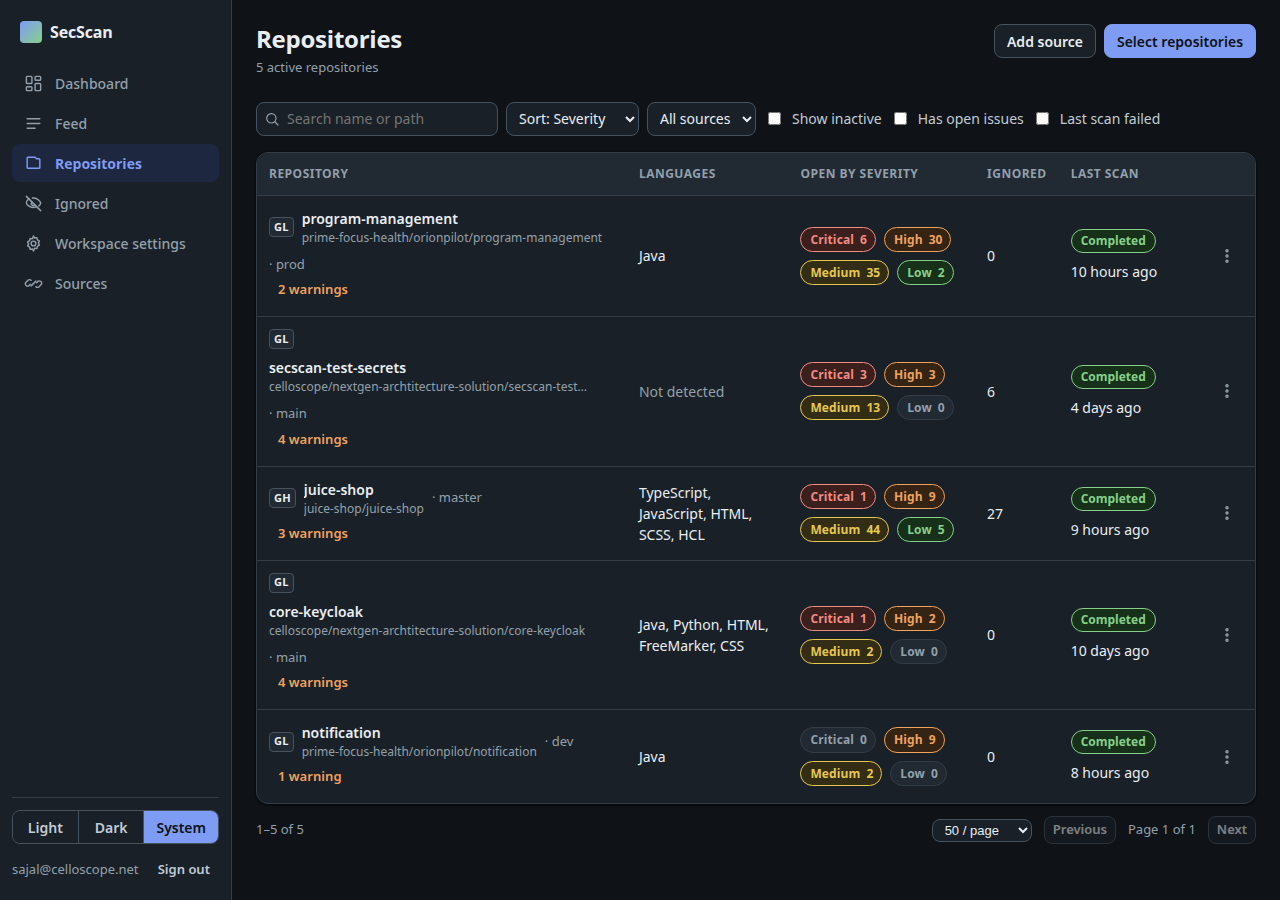
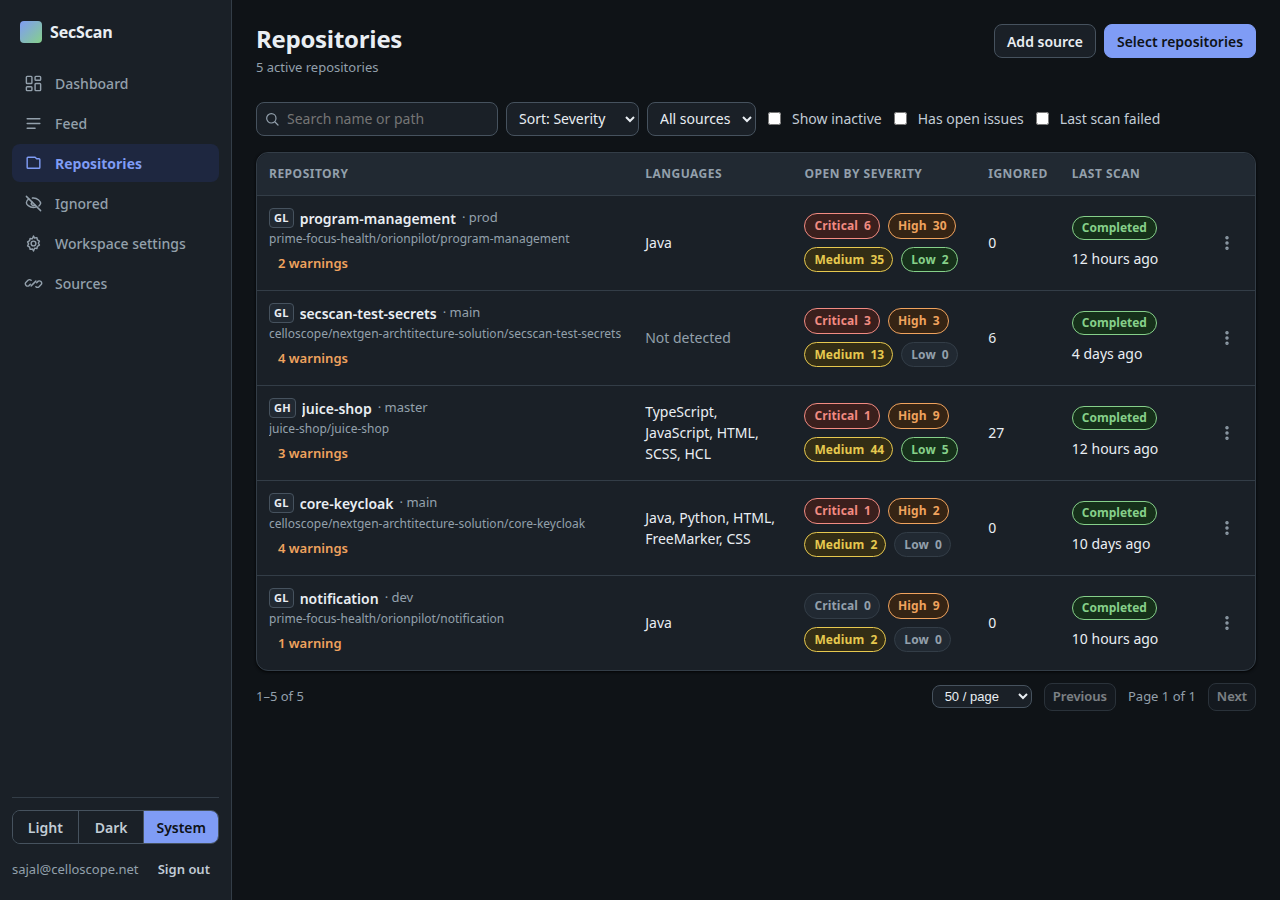
fix(ui): layout polish from screenshot review — L1-L6
L1: Repositories name cell — line 1 (badge + name + '· branch') never wraps (name
truncates with …); line 2 = full path, truncated, full path in a title tooltip.
L2: Issues location on one line, truncated from the START (keeps the file name,
full path in title) with '+N more' as a chip below; rule-id subtitles truncate
with … (full id in title); advisory subtitles wrap at word boundaries only.
L3: the fix-time column never wraps ('15 min').
L4: light-theme medium severity → a clean amber (#b45309) that keeps AA contrast.
L5: Sources help box in a right-hand column next to the form at ≥1280, stacked
below on narrow screens.
L6: the repository page 'Scan' button is primary.

Tests: truncatePath.test.ts (start-truncation, keeps file name, short unchanged);
contrast.test.ts extended (medium amber on surface); layout-1280.spec.ts
(Repositories name row + Issues location cell single-line, no horizontal overflow).
Re-took the affected screenshots (repositories/repo-page/sources/feed ×
1440/1280 × light/dark). UI gate green (123 vitest).

diff --git a/ui/src/pages/RepositoryPage.tsx b/ui/src/pages/RepositoryPage.tsx
@@ -9,6 +9,7 @@ import {
 } from "../api";
 import { qk } from "../queryClient";
 import { useScanPolling, anyActive } from "../lib/scanPolling";
+import { truncatePathStart } from "../lib/truncatePath";
 import Pager, { DEFAULT_PAGE_SIZE } from "../components/Pager";
 import { isUuid, oneOf } from "../lib/validate";
 import { fixTime } from "../lib/format";
@@ -26,7 +27,7 @@ import Icon from "../components/icons";
 import WarningsDrawer from "../components/WarningsDrawer";
 import InlineError from "../components/InlineError";
 import { TableSkeleton } from "../components/Skeleton";
-import { PageHeader, EmptyState, ScanStatusChip, PathText } from "../components/ui";
+import { PageHeader, EmptyState, ScanStatusChip } from "../components/ui";
 
 const TYPES: IssueType[] = ["sca", "sast", "secret", "iac", "eol"];
 const TABS = ["issues", "scans", "settings"] as const;
@@ -100,7 +101,7 @@ export default function RepositoryPage() {
             }
             actions={
               <>
-                <ScanButton repositoryId={r.id} disabled={!r.active} />
+                <ScanButton repositoryId={r.id} disabled={!r.active} primary />
                 <RowMenu label="Repository actions">
                   {(close) => (
                     <button
@@ -339,7 +340,10 @@ function RepoIssuesTab({ repoId }: { repoId: string }) {
                         <div className="stack-tight">
                           <strong>{t.title}</strong>
                           {t.subtitle ? (
-                            <div className={g.type === "sast" ? "muted mono-sub" : "muted subtitle-text"}>
+                            <div
+                              className={g.type === "sast" ? "muted mono-sub" : "muted subtitle-text"}
+                              title={t.subtitle}
+                            >
                               {t.subtitle}
                             </div>
                           ) : null}
@@ -350,15 +354,18 @@ function RepoIssuesTab({ repoId }: { repoId: string }) {
                       </td>
                       <td>
                         {g.primaryLocation ? (
-                          <span className="location-cell">
-                            <PathText path={g.primaryLocation} />
-                            {more > 0 ? <span className="muted"> +{more} more</span> : null}
-                          </span>
+                          <div className="location-cell">
+                            {/* L2: one line, truncated from the START (keeps the file name), full path in title. */}
+                            <span className="location-path file-line" title={g.primaryLocation}>
+                              {truncatePathStart(g.primaryLocation, 48)}
+                            </span>
+                            {more > 0 ? <span className="chip chip-muted more-chip">+{more} more</span> : null}
+                          </div>
                         ) : (
                           <span className="muted">—</span>
                         )}
                       </td>
-                      <td>{fixTime(g.fixTimeMinutes)}</td>
+                      <td className="nowrap">{fixTime(g.fixTimeMinutes)}</td>
                       <td>
                         <StatusChip kind={statusKind(g)} />
                       </td>

diff --git a/ui/src/styles/components.css b/ui/src/styles/components.css
@@ -654,12 +654,39 @@ a.stat-link:hover .stat-num {
 }
 .repo-path {
   display: block;
-  max-width: 320px;
+  max-width: 100%;
   overflow: hidden;
   text-overflow: ellipsis;
   white-space: nowrap;
   color: var(--muted);
   font-size: var(--fs-xs);
+}
+
+/* L1: the Repositories name cell — line 1 (badge + name + "· branch") never wraps (the name truncates), the
+   full path is line 2 (truncated, full path in a title tooltip). Identical at 1280 and 1440. */
+.repo-cell {
+  display: flex;
+  flex-direction: column;
+  gap: 1px;
+  min-width: 0;
+  max-width: 100%;
+}
+.repo-line {
+  display: flex;
+  align-items: center;
+  gap: 6px;
+  min-width: 0;
+  flex-wrap: nowrap;
+}
+.repo-line .provider-badge,
+.repo-line .branch-label,
+.repo-line .chip {
+  flex: none; /* only the name shrinks/truncates */
+}
+.repo-line .repo-name {
+  flex: 0 1 auto;
+  min-width: 0;
+  max-width: none;
 }
 
 /* KEV / attribution small markers */
@@ -1263,12 +1290,16 @@ button.health-item {
 .mono-sub {
   font-family: var(--mono);
   font-size: var(--fs-xs);
-  word-break: break-all;
+  /* L2: rule ids never break mid-word — one line, truncated with … (full id in the title tooltip). */
+  white-space: nowrap;
+  overflow: hidden;
+  text-overflow: ellipsis;
+  max-width: 100%;
 }
 /* advisory / description subtitles stay in the body font (never monospace) */
 .subtitle-text {
   font-size: var(--fs-xs);
-  overflow-wrap: anywhere;
+  overflow-wrap: break-word; /* L2: wrap at word boundaries, never mid-word */
 }
 
 /* ---------- pager ---------- */
@@ -1534,10 +1565,27 @@ button.health-item {
   font-size: var(--fs-xs);
 }
 .location-cell {
-  display: inline-flex;
-  align-items: baseline;
+  /* L2: location on its own line (truncated from the START), "+N more" chip below it. */
+  display: flex;
+  flex-direction: column;
+  align-items: flex-start;
   gap: 4px;
-  max-width: 280px;
+  min-width: 0;
+  max-width: 100%;
+}
+.location-path {
+  display: block;
+  max-width: 100%;
+  white-space: nowrap;
+  overflow: hidden;
+  text-overflow: ellipsis;
+  /* Truncate from the START so the file name stays visible ("…/terraform/networking.tf"). */
+  direction: rtl;
+  text-align: left;
+  unicode-bidi: plaintext;
+}
+.more-chip {
+  font-size: var(--fs-xs);
 }
 
 /* ---------- M8.6: issue side panel (gauge, sections, location grouping, nav) ---------- */
@@ -1856,5 +1904,18 @@ button.health-item {
     animation: none;
     border-top-color: currentcolor;
     opacity: 0.5;
+  }
+}
+
+/* L5: Sources wizard — form + help box; the help box moves to a right-hand column at ≥1280, stacked below
+   on narrower screens. */
+.source-wizard {
+  display: grid;
+  gap: var(--sp-4);
+}
+@media (min-width: 1280px) {
+  .source-wizard {
+    grid-template-columns: minmax(0, 1fr) 320px;
+    align-items: start;
   }
 }

diff --git a/ui/src/pages/RepositoriesPage.tsx b/ui/src/pages/RepositoriesPage.tsx
@@ -7,7 +7,6 @@ import Pager, { useUrlPaging } from "../components/Pager";
 import { useScanPolling, anyActive } from "../lib/scanPolling";
 import { useScanCompletionToasts } from "../lib/useScanCompletion";
 import RelativeTime from "../components/RelativeTime";
-import RepoName from "../components/RepoName";
 import ProviderBadge from "../components/ProviderBadge";
 import SeverityChips from "../components/SeverityChips";
 import ScanButton from "../components/ScanButton";
@@ -217,13 +216,22 @@ export default function RepositoriesPage() {
                     }}
                   >
                     <td>
-                      <div className="row">
-                        <ProviderBadge provider={r.provider} />
-                        <RepoName path={r.pathWithNamespace} showPath />
-                        {r.effectiveBranch ? (
-                          <span className="muted branch-label">· {r.effectiveBranch}</span>
-                        ) : null}
-                        {!r.active ? <span className="chip chip-ignored">Inactive</span> : null}
+                      {/* L1: line 1 = badge + name + "· branch" on ONE non-wrapping line (name truncates); the
+                          full group/project path is line 2, truncated, with the full path in a title tooltip. */}
+                      <div className="repo-cell">
+                        <div className="repo-line">
+                          <ProviderBadge provider={r.provider} />
+                          <span className="repo-name" title={r.pathWithNamespace}>
+                            {r.pathWithNamespace.split("/").filter(Boolean).pop() ?? r.pathWithNamespace}
+                          </span>
+                          {r.effectiveBranch ? (
+                            <span className="muted branch-label">· {r.effectiveBranch}</span>
+                          ) : null}
+                          {!r.active ? <span className="chip chip-ignored">Inactive</span> : null}
+                        </div>
+                        <div className="repo-path" title={r.pathWithNamespace}>
+                          {r.pathWithNamespace}
+                        </div>
                       </div>
                       {r.branchMissing ? (
                         <span className="expiry-warn">branch missing — choose another</span>

diff --git a/ui/e2e/tests/layout-1280.spec.ts b/ui/e2e/tests/layout-1280.spec.ts
@@ -1,0 +1,33 @@
+import { test, expect, signIn } from "../fixtures/test-base";
+
+// M8.8 L1/L2 at 1280: the Repositories name row and the Issues-tab location cell are single-line (height ≤ one
+// line) and the page never overflows horizontally.
+const CORE = "20000000-0000-0000-0000-000000000001"; // acme/core-keycloak
+
+test.use({ viewport: { width: 1280, height: 800 } });
+
+async function noHorizontalPageOverflow(page: import("@playwright/test").Page): Promise<boolean> {
+  return page.evaluate(
+    () => document.documentElement.scrollWidth <= document.documentElement.clientWidth + 1,
+  );
+}
+
+test("L1 — the Repositories name row is one line and the page does not overflow at 1280", async ({ page }) => {
+  await signIn(page, "/repositories");
+  const nameLine = page.getByTestId("repo-row").first().locator(".repo-line");
+  await expect(nameLine).toBeVisible();
+  const box = await nameLine.boundingBox();
+  expect(box, "name row has a box").not.toBeNull();
+  expect(box!.height, "name row is a single line").toBeLessThan(30);
+  expect(await noHorizontalPageOverflow(page), "no horizontal page overflow").toBe(true);
+});
+
+test("L2 — the Issues-tab location cell is one line and the page does not overflow at 1280", async ({ page }) => {
+  await signIn(page, `/repositories/${CORE}?tab=issues`);
+  const loc = page.locator(".location-path").first();
+  await expect(loc).toBeVisible();
+  const box = await loc.boundingBox();
+  expect(box, "location has a box").not.toBeNull();
+  expect(box!.height, "location is a single line").toBeLessThan(28);
+  expect(await noHorizontalPageOverflow(page), "no horizontal page overflow").toBe(true);
+});

diff --git a/ui/src/lib/truncatePath.test.ts b/ui/src/lib/truncatePath.test.ts
@@ -1,0 +1,28 @@
+import { describe, expect, it } from "vitest";
+import { truncatePathStart } from "./truncatePath";
+
+describe("truncatePathStart (M8.8 L2)", () => {
+  it("leaves a short path unchanged", () => {
+    expect(truncatePathStart("src/app.ts", 44)).toBe("src/app.ts");
+    expect(truncatePathStart("", 44)).toBe("");
+  });
+
+  it("truncates a long path from the start, keeping the file name", () => {
+    const r = truncatePathStart("infra/environments/prod/terraform/networking.tf", 25);
+    expect(r.startsWith("…")).toBe(true);
+    expect(r.endsWith("networking.tf")).toBe(true);
+    expect(r).not.toContain("infra"); // the leading segments were dropped
+    expect(r.length).toBeLessThanOrEqual(26);
+  });
+
+  it("begins the kept tail at a clean path separator", () => {
+    const r = truncatePathStart("a/bb/ccc/dddd/eeeee/file.tf", 18);
+    expect(r.startsWith("…/")).toBe(true); // "…/<segment>…/file.tf", not "…ddd/file.tf"
+    expect(r.endsWith("file.tf")).toBe(true);
+  });
+
+  it("keeps the whole file name even when it alone exceeds the budget", () => {
+    const r = truncatePathStart("x/a-very-very-long-file-name.tf", 10);
+    expect(r).toBe("…/a-very-very-long-file-name.tf");
+  });
+});

diff --git a/ui/src/components/ConnectGitLab.tsx b/ui/src/components/ConnectGitLab.tsx
@@ -173,9 +173,10 @@ export default function ConnectGitLab({ onChanged }: { onChanged: (anyConnection
   return (
     <div className="stack-4">
       <Card>
+        <h3>Add a source</h3>
+        {/* L5: at ≥1280 the help box sits in a right-hand column next to the form; it stacks below on narrow. */}
+        <div className="source-wizard">
         <form className="form" data-testid="add-source-form" onSubmit={(e) => e.preventDefault()}>
-          <h3>Add a source</h3>
-
           <Segmented
             label="Provider"
             value={provider}
@@ -264,8 +265,6 @@ export default function ConnectGitLab({ onChanged }: { onChanged: (anyConnection
             </div>
           ) : null}
 
-          <HelpBox provider={provider} glHost={glHost} access={access} />
-
           {error ? <p className="field-error" data-testid="source-error">{error}</p> : null}
 
           <div className="row">
@@ -274,6 +273,8 @@ export default function ConnectGitLab({ onChanged }: { onChanged: (anyConnection
             </Button>
           </div>
         </form>
+        <HelpBox provider={provider} glHost={glHost} access={access} />
+        </div>
       </Card>
 
       {selecting ? (

diff --git a/ui/src/components/ScanButton.tsx b/ui/src/components/ScanButton.tsx
@@ -10,7 +10,15 @@ const TERMINAL = new Set(["completed", "partial", "failed"]);
  * reaches a terminal status, and on terminal refetch the feed/dashboard/repository counts. With no worker (the
  * e2e stack) the scan stays queued — the polling-to-terminal path is exercised by intercepting the status call.
  */
-export default function ScanButton({ repositoryId, disabled }: { repositoryId: string; disabled?: boolean }) {
+export default function ScanButton({
+  repositoryId,
+  disabled,
+  primary = false,
+}: {
+  repositoryId: string;
+  disabled?: boolean;
+  primary?: boolean;
+}) {
   const [scanId, setScanId] = useState<string | null>(null);
 
   const start = useMutation({
@@ -43,7 +51,7 @@ export default function ScanButton({ repositoryId, disabled }: { repositoryId: s
   const busy = scanning || start.isPending;
   return (
     <button
-      className="btn btn-secondary btn-sm"
+      className={primary ? "btn btn-primary" : "btn btn-secondary btn-sm"}
       disabled={disabled || busy}
       onClick={() => start.mutate()}
       title={

diff --git a/ui/src/lib/truncatePath.ts b/ui/src/lib/truncatePath.ts
@@ -1,0 +1,21 @@
+/**
+ * Truncates a file path from the START, always keeping the file name intact, so a long path reads as
+ * "…/terraform/networking.tf" (M8.8 L2). A path already within {@code maxChars} is returned unchanged; the
+ * caller shows the full path in a title tooltip. Pure — unit-tested; the cell also uses CSS nowrap/ellipsis so
+ * the final width is responsive.
+ */
+export function truncatePathStart(path: string, maxChars = 44): string {
+  if (!path || path.length <= maxChars) {
+    return path;
+  }
+  const slash = path.lastIndexOf("/");
+  const file = slash < 0 ? path : path.slice(slash + 1);
+  // The file name is always kept in full, even when it alone fills (or exceeds) the budget.
+  if (file.length + 2 >= maxChars) {
+    return "…/" + file;
+  }
+  // Keep as much of the leading path as fits, beginning at a clean "/" boundary.
+  const tail = path.slice(path.length - (maxChars - 1));
+  const cut = tail.indexOf("/");
+  return "…" + (cut >= 0 ? tail.slice(cut) : "/" + tail);
+}

diff --git a/ui/src/pages/FeedPage.tsx b/ui/src/pages/FeedPage.tsx
@@ -312,7 +312,7 @@ export default function FeedPage() {
                       <RepoName path={g.repositoryPath} />
                       {g.repositoryBranch ? <span className="muted branch-label"> · {g.repositoryBranch}</span> : null}
                     </td>
-                    <td>{fixTime(g.fixTimeMinutes)}</td>
+                    <td className="nowrap">{fixTime(g.fixTimeMinutes)}</td>
                     <td>
                       <StatusChip kind={statusKind(g)} />
                     </td>

diff --git a/ui/src/styles/contrast.test.ts b/ui/src/styles/contrast.test.ts
@@ -64,6 +64,8 @@ const STRONG_PAIRS: [string, string][] = [
   ["--sev-high", "--sev-high-bg"],
   ["--sev-medium", "--sev-medium-bg"],
   ["--sev-low", "--sev-low-bg"],
+  // L4: the Feed band-bar medium amber must stay a clean, AA-contrast color against the card surface.
+  ["--sev-medium", "--surface"],
 ];
 
 for (const [theme, selector] of [

diff --git a/ui/src/styles/tokens.css b/ui/src/styles/tokens.css
@@ -28,7 +28,7 @@
   /* severity bands — severity ONLY (AA text on --surface) */
   --sev-critical: #b3261e;
   --sev-high: #b45309;
-  --sev-medium: #8a6d00;
+  --sev-medium: #b45309;
   --sev-low: #2f7a34;
   --sev-critical-bg: #fbe9e7;
   --sev-high-bg: #fdf0e3;
